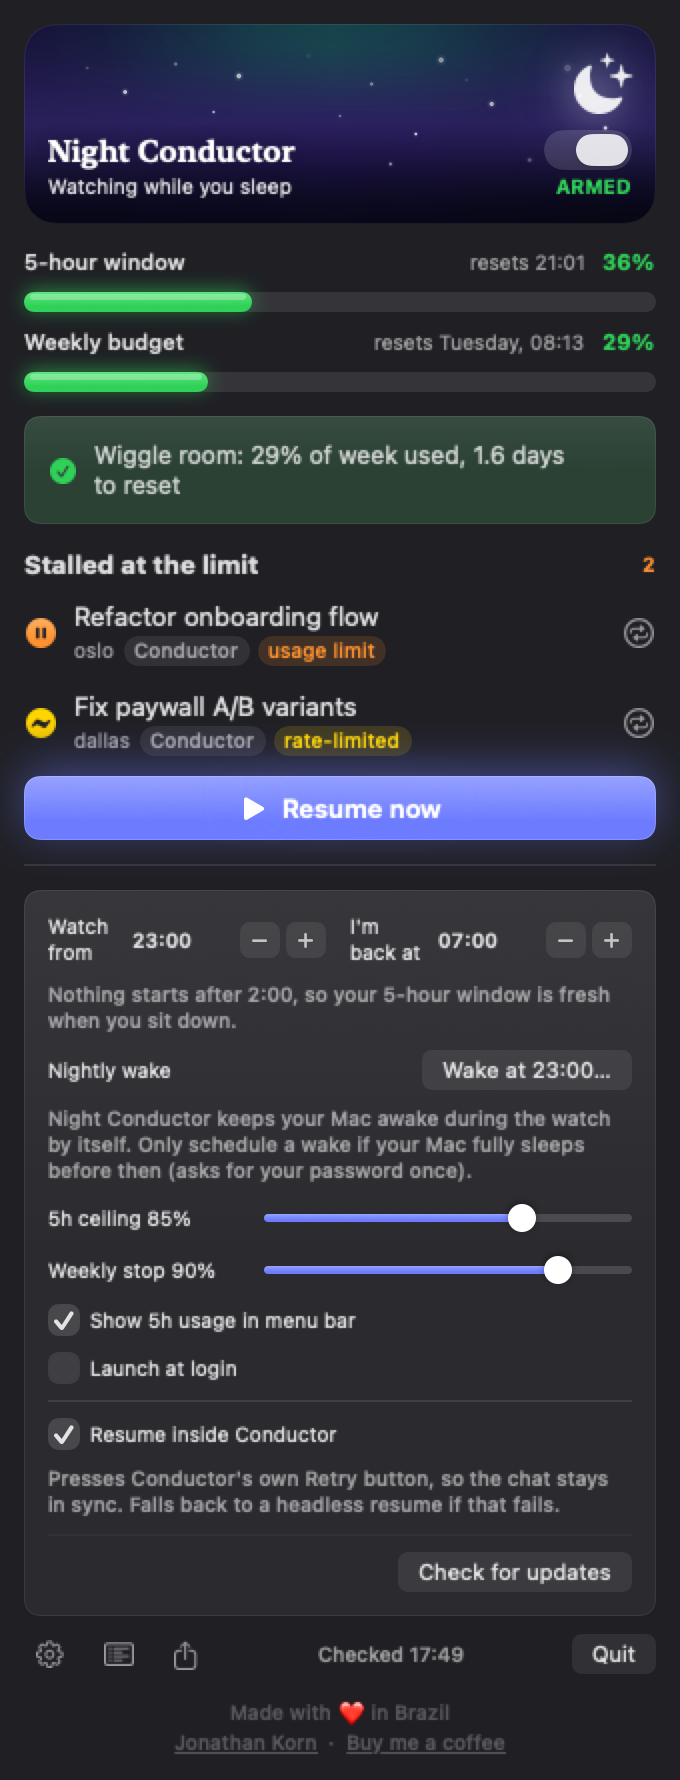
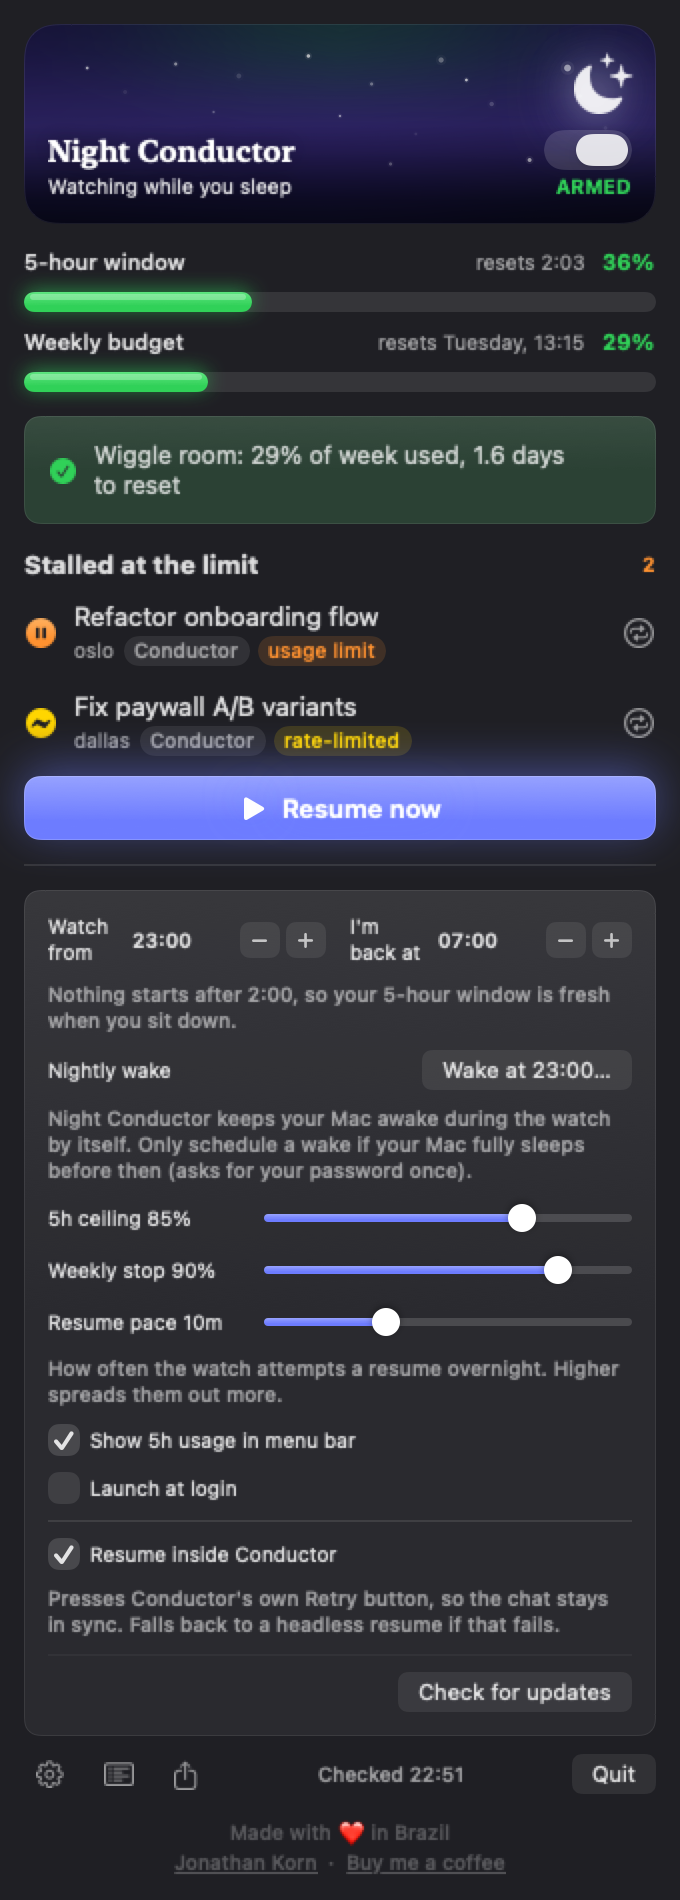
feat: configurable resume pace + bump to 1.0.4
Adds a "Resume pace" slider to Settings (5 to 20 min, default 10), so you can
control how spread out the night's resumes are. The resume loop reads it (still
jittered +/-40%); the value is clamped via the pure, tested AppState.paceSeconds.
Regenerated the settings screenshot. 47 tests green.

diff --git a/NightConductor/Sources/NightConductor/AppState.swift b/NightConductor/Sources/NightConductor/AppState.swift
@@ -53,6 +53,7 @@ final class AppState: ObservableObject {
             "endHour": 7,
             "fiveHourCeiling": 85.0,
             "weeklyCeiling": 90.0,
+            "resumePaceMinutes": 10.0,
         ])
         if forScreenshots { return } // inert state; data injected by caller
         // No accessibility prompt at launch — that nags on every relaunch.
@@ -88,8 +89,10 @@ final class AppState: ObservableObject {
         resumeLoop = Task { [weak self] in
             while !Task.isCancelled {
                 // Jittered gap between resume attempts so the night's resumes
-                // spread out (and don't sync to a robotic 10-min beat).
-                let gap = Self.resumeInterval * Double.random(in: 0.6...1.4) // ~6–14 min
+                // spread out (and don't sync to a robotic beat). Pace is the
+                // user's setting (clamped); jitter is +/-40%.
+                let pace = Self.paceSeconds(UserDefaults.standard.object(forKey: "resumePaceMinutes") as? Double)
+                let gap = pace * Double.random(in: 0.6...1.4)
                 try? await Task.sleep(for: .seconds(gap))
                 await self?.resumeTick()
             }
@@ -214,6 +217,12 @@ final class AppState: ObservableObject {
         if hasUsage && attemptAge < minAttemptGap { return false }
         let blockedByBackoff = inBackoff && fresh
         return !blockedByBackoff && (force || !hasUsage || age > threshold)
+    }
+
+    /// Seconds between resume attempts from the user's "resume pace" setting,
+    /// clamped to a sane 5 to 20 minute range (jitter is added at the call site).
+    nonisolated static func paceSeconds(_ minutes: Double?) -> TimeInterval {
+        min(20, max(5, minutes ?? 10)) * 60
     }
 
     /// Whether the auto loop should resume this session now. Pinned sessions run

diff --git a/NightConductor/Tests/NightConductorTests/ResumeEligibilityTests.swift b/NightConductor/Tests/NightConductorTests/ResumeEligibilityTests.swift
@@ -34,4 +34,15 @@ final class ResumeEligibilityTests: XCTestCase {
         XCTAssertTrue(eligible(session(transient: true, stalledAgo: nil), nightOK: true))   // unknown time: don't block
         XCTAssertTrue(eligible(session(transient: false, stalledAgo: 30), nightOK: true))   // cool-down is transient-only
     }
+
+    // The "resume pace" setting (minutes) is clamped to 5...20 and converted to
+    // seconds; nil (unset) falls back to the 10 min default.
+    func testResumePaceClamping() {
+        XCTAssertEqual(AppState.paceSeconds(10), 600)
+        XCTAssertEqual(AppState.paceSeconds(5), 300)
+        XCTAssertEqual(AppState.paceSeconds(20), 1200)
+        XCTAssertEqual(AppState.paceSeconds(2), 300)    // clamped up to 5
+        XCTAssertEqual(AppState.paceSeconds(60), 1200)  // clamped down to 20
+        XCTAssertEqual(AppState.paceSeconds(nil), 600)  // unset -> default
+    }
 }

diff --git a/NightConductor/Sources/NightConductor/MenuView.swift b/NightConductor/Sources/NightConductor/MenuView.swift
@@ -426,6 +426,7 @@ struct SettingsPane: View {
     @AppStorage("endHour") private var endHour = 7
     @AppStorage("fiveHourCeiling") private var fiveHourCeiling = 85.0
     @AppStorage("weeklyCeiling") private var weeklyCeiling = 90.0
+    @AppStorage("resumePaceMinutes") private var resumePaceMinutes = 10.0
     @AppStorage("uiResume") private var uiResume = true
     @AppStorage("menuBarUsage") private var menuBarUsage = true
     @State private var launchAtLogin = SMAppService.mainApp.status == .enabled
@@ -477,6 +478,14 @@ struct SettingsPane: View {
                     .font(.caption).frame(width: 96, alignment: .leading)
                 NightSlider(value: $weeklyCeiling, range: 50...100, step: 5)
             }
+            HStack(spacing: Design.l) {
+                Text("Resume pace \(Int(resumePaceMinutes))m")
+                    .font(.caption).frame(width: 96, alignment: .leading)
+                NightSlider(value: $resumePaceMinutes, range: 5...20, step: 1)
+            }
+            Text("How often the watch attempts a resume overnight. Higher spreads them out more.")
+                .font(.caption2).foregroundStyle(.secondary)
+                .frame(maxWidth: .infinity, alignment: .leading)
             Toggle("Show 5h usage in menu bar", isOn: $menuBarUsage)
                 .font(.caption)
                 .toggleStyle(.checkbox)

diff --git a/CHANGELOG.md b/CHANGELOG.md
@@ -2,7 +2,14 @@
 
 All notable changes to Night Conductor. Dates are when the release was cut.
 
-## Unreleased
+## 1.0.4
+
+### Added
+- A configurable resume pace. A slider in Settings sets how often the night
+  watch attempts a resume (5 to 20 minutes, jittered), so you can spread the
+  night's work out as much as you like.
+
+## 1.0.3
 
 ### Added
 - Cool-down before retrying a transient server rate-limit. The app already